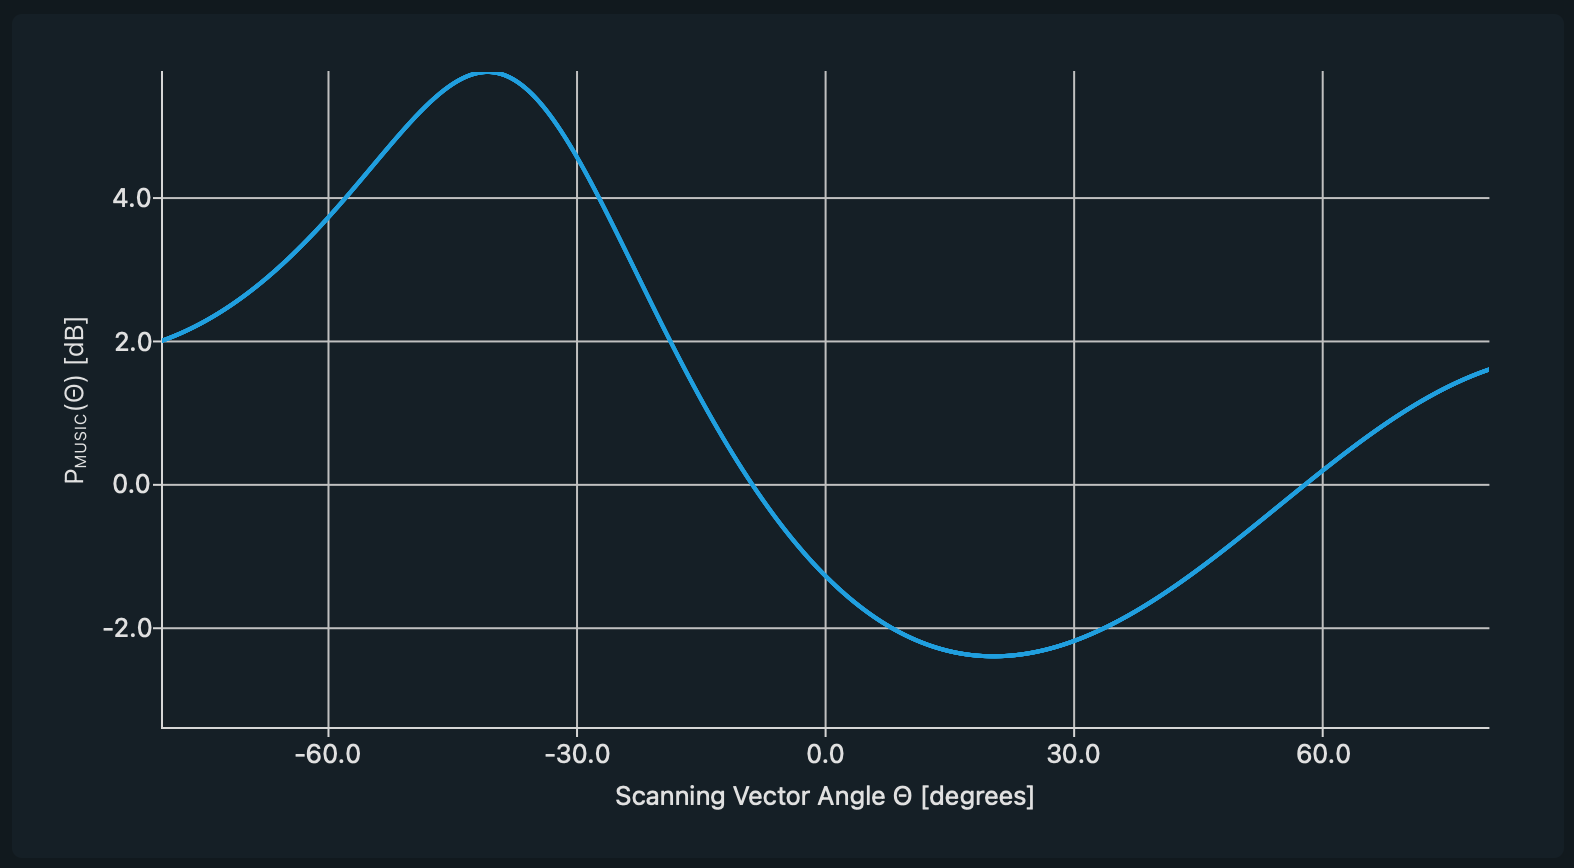
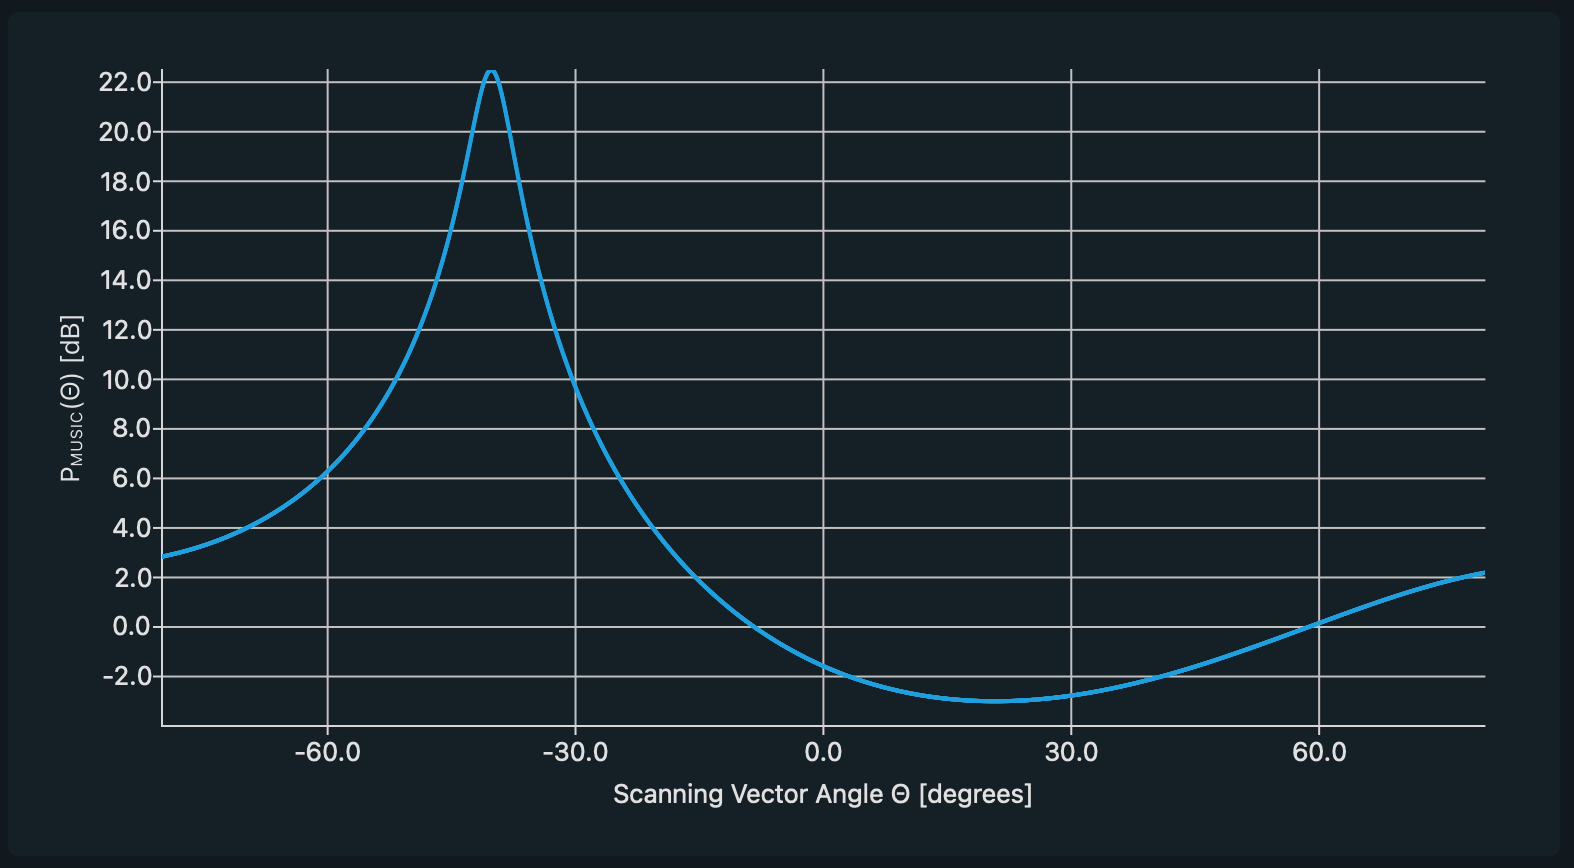
Measurement

Changed region(s): [[0.0311, 0.0622, 0.9339, 0.9021], [0.3736, 0.9021, 0.6537, 0.9332], [0.3424, 0.591, 0.3736, 0.6221]]

diff --git a/matlab/music_125MHz_M64_1m_-30deg/cfr.m b/matlab/music_125MHz_M64_1m_-30deg/cfr.m
@@ -1,38 +1,38 @@
 % Auto-generated MATLAB script
 clear;
-CH0_314 = [ ...
-0 + 1i*0, 0.839466 + 1i*-0.112458, 0.829979 + 1i*-0.107621, 0.81915 + 1i*-0.102733, 0.80703 + 1i*-0.0978115,  ...
-0.793667 + 1i*-0.0928722, 0.779106 + 1i*-0.0879274, 0.763388 + 1i*-0.0829871, 0 + 1i*0, 0 + 1i*0,  ...
-0 + 1i*0, 0 + 1i*0, 0 + 1i*0, 0.646664 + 1i*-0.0538304, 0.623712 + 1i*-0.0491016,  ...
-0.599807 + 1i*-0.0444256, 0.574957 + 1i*-0.0398106, 0.549168 + 1i*-0.0352671, 0.522442 + 1i*-0.0308083, 0.494775 + 1i*-0.026451,  ...
-0.466162 + 1i*-0.0222157, 0.436595 + 1i*-0.018128, 0.406058 + 1i*-0.0142188, 0.374537 + 1i*-0.0105252, 0.342012 + 1i*-0.00709151,  ...
-0.308459 + 1i*-0.00397015, 0 + 1i*0, 0 + 1i*0, 0 + 1i*0, 0 + 1i*0,  ...
+CH0_313 = [ ...
 0 + 1i*0, 0 + 1i*0, 0 + 1i*0, 0 + 1i*0, 0 + 1i*0,  ...
-0 + 1i*0, 0 + 1i*0, 0 + 1i*0, 0 + 1i*0, 0.37856 + 1i*-0.0877708,  ...
-0.431522 + 1i*-0.0996932, 0.480732 + 1i*-0.110415, 0.526337 + 1i*-0.119933, 0.568478 + 1i*-0.128259, 0.607288 + 1i*-0.13542,  ...
-0.642895 + 1i*-0.141451, 0.675418 + 1i*-0.146397, 0.704974 + 1i*-0.15031, 0.731674 + 1i*-0.153246, 0.755624 + 1i*-0.155266,  ...
-0.776928 + 1i*-0.156434, 0.795685 + 1i*-0.156813, 0.811991 + 1i*-0.15647, 0.825938 + 1i*-0.155468, 0.837617 + 1i*-0.153871,  ...
-0.847116 + 1i*-0.15174, 0.854518 + 1i*-0.149134, 0.859905 + 1i*-0.146109, 0.863358 + 1i*-0.142719, 0.864952 + 1i*-0.139013,  ...
-0.864763 + 1i*-0.135037, 0.862861 + 1i*-0.130833, 0.859316 + 1i*-0.126441, 0.854193 + 1i*-0.121894];
-CH1_314 = [ ...
-0 + 1i*0, -0.659433 + 1i*1.85867, -0.660952 + 1i*1.83975, -0.661424 + 1i*1.81759, -0.660823 + 1i*1.79229,  ...
--0.659117 + 1i*1.76393, -0.656267 + 1i*1.73261, -0.652231 + 1i*1.6984, 0 + 1i*0, 0 + 1i*0,  ...
-0 + 1i*0, 0 + 1i*0, 0 + 1i*0, -0.60017 + 1i*1.437, -0.586305 + 1i*1.38468,  ...
--0.570795 + 1i*1.33001, -0.553579 + 1i*1.27303, -0.534602 + 1i*1.21377, -0.513807 + 1i*1.15227, -0.491148 + 1i*1.08854,  ...
--0.466581 + 1i*1.02259, -0.440071 + 1i*0.954417, -0.411589 + 1i*0.884021, -0.381119 + 1i*0.811376, -0.348656 + 1i*0.736448,  ...
--0.314208 + 1i*0.659187, 0 + 1i*0, 0 + 1i*0, 0 + 1i*0, 0 + 1i*0,  ...
+0 + 1i*0, 0 + 1i*0, -0.494303 + 1i*0.297593, -0.572599 + 1i*0.327935, -0.647213 + 1i*0.352992,  ...
+-0.718005 + 1i*0.373258, -0.784884 + 1i*0.38918, -0.847798 + 1i*0.401152, -0.906729 + 1i*0.409529, -0.961683 + 1i*0.414625,  ...
+-1.01269 + 1i*0.41672, -1.05979 + 1i*0.416064, -1.10305 + 1i*0.412877, -1.14252 + 1i*0.407359, -1.17828 + 1i*0.399687,  ...
+-1.21041 + 1i*0.390025, -1.23897 + 1i*0.378521, -1.26406 + 1i*0.365313, -1.28575 + 1i*0.350529, -1.30411 + 1i*0.334294,  ...
+-1.31922 + 1i*0.316726, -1.33115 + 1i*0.297942, -1.33997 + 1i*0.278057, -1.34574 + 1i*0.257186, -1.34853 + 1i*0.235449,  ...
+-1.34841 + 1i*0.212963, -1.34542 + 1i*0.189854, 0 + 1i*0, -1.33108 + 1i*0.142269, -1.31984 + 1i*0.11806,  ...
+-1.30596 + 1i*0.0937564, -1.28949 + 1i*0.0695018, -1.27049 + 1i*0.0454433, -1.249 + 1i*0.0217309, -1.2251 + 1i*-0.00148215,  ...
 0 + 1i*0, 0 + 1i*0, 0 + 1i*0, 0 + 1i*0, 0 + 1i*0,  ...
-0 + 1i*0, 0 + 1i*0, 0 + 1i*0, 0 + 1i*0, -0.203626 + 1i*0.789683,  ...
--0.238516 + 1i*0.904787, -0.272196 + 1i*1.01219, -0.304526 + 1i*1.11218, -0.335406 + 1i*1.20504, -0.364766 + 1i*1.29101,  ...
--0.392564 + 1i*1.37036, -0.418783 + 1i*1.4433, -0.443423 + 1i*1.51007, -0.4665 + 1i*1.57088, -0.48804 + 1i*1.62593,  ...
--0.508083 + 1i*1.67541, -0.526672 + 1i*1.71951, -0.543855 + 1i*1.7584, -0.559683 + 1i*1.79225, -0.574207 + 1i*1.82122,  ...
--0.587478 + 1i*1.84548, -0.599544 + 1i*1.86516, -0.610448 + 1i*1.88041, -0.620231 + 1i*1.89138, -0.628928 + 1i*1.89818,  ...
--0.636566 + 1i*1.90096, -0.643169 + 1i*1.89984, -0.648753 + 1i*1.89494, -0.653324 + 1i*1.88637];
-figure;subplot(2,1,1); hold on;plot(abs(CH0_314), 'DisplayName', 'CH0_314');title('Channel Frequency Response Gain'); legend; grid on;
-subplot(2,1,2); hold on;plot(angle(CH0_314), 'DisplayName', 'CH0_314');title('Channel Frequency Response Phase'); legend; grid on;
-figure;plot(real(CH0_314), imag(CH0_314), '.', 'DisplayName', 'CH0_314'); hold on;title('CFR'); xlabel('Real'); ylabel('Imag'); axis equal; legend; grid on;
+-1.0344 + 1i*-0.12149, -0.995407 + 1i*-0.136822, -0.95456 + 1i*-0.150418, -0.91195 + 1i*-0.16214, -0.867664 + 1i*-0.171853,  ...
+-0.82179 + 1i*-0.179435, -0.774419 + 1i*-0.184771, -0.725637 + 1i*-0.18776, -0.675532 + 1i*-0.188311, -0.624183 + 1i*-0.18635,  ...
+-0.571667 + 1i*-0.181815, -0.518051 + 1i*-0.174663, -0.463391 + 1i*-0.164869, 0 + 1i*0, 0 + 1i*0,  ...
+0 + 1i*0, 0 + 1i*0, 0 + 1i*0, 0 + 1i*0];
+CH1_313 = [ ...
+0 + 1i*0, 0 + 1i*0, 0 + 1i*0, 0 + 1i*0, 0 + 1i*0,  ...
+0 + 1i*0, 0 + 1i*0, 0.175488 + 1i*-0.586166, 0.205709 + 1i*-0.672864, 0.234281 + 1i*-0.75401,  ...
+0.260976 + 1i*-0.829854, 0.285638 + 1i*-0.900622, 0.308176 + 1i*-0.966514, 0.328548 + 1i*-1.02771, 0.346761 + 1i*-1.08437,  ...
+0.362854 + 1i*-1.13663, 0.3769 + 1i*-1.18462, 0.388992 + 1i*-1.22847, 0.399244 + 1i*-1.26826, 0.40778 + 1i*-1.30412,  ...
+0.414735 + 1i*-1.33611, 0.420246 + 1i*-1.36434, 0.424454 + 1i*-1.38889, 0.427495 + 1i*-1.40984, 0.429502 + 1i*-1.42727,  ...
+0.4306 + 1i*-1.44126, 0.430906 + 1i*-1.4519, 0.430525 + 1i*-1.45925, 0.429551 + 1i*-1.4634, 0.428064 + 1i*-1.46444,  ...
+0.426132 + 1i*-1.46243, 0.423807 + 1i*-1.45746, 0 + 1i*0, 0.418125 + 1i*-1.43897, 0.414802 + 1i*-1.4256,  ...
+0.411161 + 1i*-1.40959, 0.407187 + 1i*-1.39102, 0.402854 + 1i*-1.36997, 0.398125 + 1i*-1.34652, 0.392956 + 1i*-1.32073,  ...
+0 + 1i*0, 0 + 1i*0, 0 + 1i*0, 0 + 1i*0, 0 + 1i*0,  ...
+0.349334 + 1i*-1.12124, 0.339343 + 1i*-1.08116, 0.328404 + 1i*-1.03929, 0.316463 + 1i*-0.995681, 0.303475 + 1i*-0.950377,  ...
+0.289411 + 1i*-0.903412, 0.274251 + 1i*-0.854813, 0.257995 + 1i*-0.804598, 0.240663 + 1i*-0.752772, 0.222296 + 1i*-0.69933,  ...
+0.202962 + 1i*-0.644251, 0.182759 + 1i*-0.587502, 0.161817 + 1i*-0.529034, 0 + 1i*0, 0 + 1i*0,  ...
+0 + 1i*0, 0 + 1i*0, 0 + 1i*0, 0 + 1i*0];
+figure;subplot(2,1,1); hold on;plot(abs(CH0_313), 'DisplayName', 'CH0_313');title('Channel Frequency Response Gain'); legend; grid on;
+subplot(2,1,2); hold on;plot(angle(CH0_313), 'DisplayName', 'CH0_313');title('Channel Frequency Response Phase'); legend; grid on;
+figure;plot(real(CH0_313), imag(CH0_313), '.', 'DisplayName', 'CH0_313'); hold on;title('CFR'); xlabel('Real'); ylabel('Imag'); axis equal; legend; grid on;
 
-figure;subplot(2,1,1); hold on;plot(abs(CH1_314), 'DisplayName', 'CH1_314');title('Channel Frequency Response Gain'); legend; grid on;
-subplot(2,1,2); hold on;plot(angle(CH1_314), 'DisplayName', 'CH1_314');title('Channel Frequency Response Phase'); legend; grid on;
-figure;plot(real(CH1_314), imag(CH1_314), '.', 'DisplayName', 'CH1_314'); hold on;title('CFR'); xlabel('Real'); ylabel('Imag'); axis equal; legend; grid on;
+figure;subplot(2,1,1); hold on;plot(abs(CH1_313), 'DisplayName', 'CH1_313');title('Channel Frequency Response Gain'); legend; grid on;
+subplot(2,1,2); hold on;plot(angle(CH1_313), 'DisplayName', 'CH1_313');title('Channel Frequency Response Phase'); legend; grid on;
+figure;plot(real(CH1_313), imag(CH1_313), '.', 'DisplayName', 'CH1_313'); hold on;title('CFR'); xlabel('Real'); ylabel('Imag'); axis equal; legend; grid on;
 

diff --git a/matlab/music_125MHz_M64_1m_-30deg/cbdata.m b/matlab/music_125MHz_M64_1m_-30deg/cbdata.m
@@ -1,26 +1,26 @@
 % Auto-generated MATLAB script
 clear;
-CH1_314 = [ ...
--1.13475 + 1i*0.126164, -0.5749 + 1i*0.0444712, -1.21901 + 1i*0.133912, 0.652826 + 1i*-0.0493812, 1.08866 + 1i*-0.0595365,  ...
-1.34441 + 1i*-0.130144, 0.815416 + 1i*-0.0291612, 0.931013 + 1i*-0.0823411, -1.03933 + 1i*0.0647021, -0.640247 + 1i*0.0933208,  ...
-1.97541 + 1i*-0.102901, -1.17997 + 1i*0.0596367, 1.09322 + 1i*-0.0465409, 1.7179 + 1i*-0.0822725, -0.751111 + 1i*0.0622601,  ...
--0.96306 + 1i*0.0700584, -1.25847 + 1i*0.011991, -1.07077 + 1i*0.0180304, 1.08992 + 1i*-0.190044, 1.05165 + 1i*-0.187893,  ...
--0.807802 + 1i*0.193183, -0.536855 + 1i*0.115255, -0.700583 + 1i*0.106271, -0.725771 + 1i*0.112985, 1.46531 + 1i*-0.254626,  ...
--1.17331 + 1i*0.176228, -1.79239 + 1i*0.319359, 1.05856 + 1i*-0.174188, 1.15646 + 1i*-0.217548, -0.68137 + 1i*0.0827339,  ...
--1.31993 + 1i*0.196972, 0.785658 + 1i*-0.125581, 1.14274 + 1i*-0.20009, -1.07064 + 1i*0.141137, 1.18843 + 1i*-0.198564,  ...
--1.1979 + 1i*0.123285, -0.703288 + 1i*0.0564867, -1.33242 + 1i*0.164197, -0.712241 + 1i*0.0658301, -1.22453 + 1i*0.138552 ...
+CH1_313 = [ ...
+-1.13346 + 1i*0.0705674, -0.548276 + 1i*0.0421696, -1.16858 + 1i*0.0443053, 0.685618 + 1i*0.0187171, 1.10873 + 1i*0.0107721,  ...
+1.31547 + 1i*-0.0491416, 0.853745 + 1i*-0.0209245, 0.917429 + 1i*-0.0637078, -1.06259 + 1i*-0.0333763, -0.584675 + 1i*0.0391406,  ...
+1.99443 + 1i*-0.0145998, -1.18712 + 1i*-0.0524963, 1.15663 + 1i*-0.0192399, 1.63808 + 1i*-0.0124167, -0.83727 + 1i*0.0206494,  ...
+-0.994226 + 1i*0.0406581, -1.22302 + 1i*-0.0127914, -0.980771 + 1i*-0.00131702, 1.1243 + 1i*-0.0806113, 0.989273 + 1i*-0.0683345,  ...
+-0.91409 + 1i*0.0740796, -0.579319 + 1i*0.0526549, -0.699171 + 1i*0.0167522, -0.697608 + 1i*0.0354099, 1.4727 + 1i*-0.0721382,  ...
+-1.23904 + 1i*0.0610015, -1.74641 + 1i*0.127841, 1.16434 + 1i*-0.0491952, 1.14703 + 1i*-0.0788532, -0.728601 + 1i*0.0355689,  ...
+-1.2785 + 1i*0.104928, 0.869856 + 1i*-0.0148897, 1.14139 + 1i*-0.0570662, -1.09286 + 1i*0.0544299, 1.1727 + 1i*-0.043824,  ...
+-1.26775 + 1i*0.0449521, -0.731491 + 1i*0.0353281, -1.3655 + 1i*0.108962, -0.729378 + 1i*0.0666865, -1.21588 + 1i*0.0862769 ...
 ];
-CH0_314 = [ ...
--1.14688 + 1i*0.107225, -0.557138 + 1i*0.0412242, -1.19555 + 1i*0.0942418, 0.67492 + 1i*-0.0292559, 1.09722 + 1i*-0.0823374,  ...
-1.33781 + 1i*-0.101277, 0.815027 + 1i*-0.0405919, 0.930633 + 1i*-0.0743145, -1.05931 + 1i*0.0314443, -0.606026 + 1i*0.0280947,  ...
-1.96905 + 1i*-0.0690866, -1.17634 + 1i*0.0449744, 1.10714 + 1i*-0.0427977, 1.67757 + 1i*-0.0310437, -0.771837 + 1i*0.0298126,  ...
--0.959493 + 1i*0.0196839, -1.19267 + 1i*0.0142657, -1.03357 + 1i*0.0069604, 1.09901 + 1i*-0.244216, 1.03386 + 1i*-0.187185,  ...
--0.870598 + 1i*0.151338, -0.556448 + 1i*0.100841, -0.681091 + 1i*0.0988932, -0.709691 + 1i*0.116596, 1.47364 + 1i*-0.235695,  ...
--1.1972 + 1i*0.175582, -1.79784 + 1i*0.274347, 1.0999 + 1i*-0.154791, 1.17106 + 1i*-0.17384, -0.686539 + 1i*0.0707869,  ...
--1.31665 + 1i*0.184911, 0.822855 + 1i*-0.106736, 1.15741 + 1i*-0.163014, -1.06721 + 1i*0.115797, 1.18665 + 1i*-0.157254,  ...
--1.2179 + 1i*0.137731, -0.710914 + 1i*0.0774284, -1.3558 + 1i*0.153099, -0.72169 + 1i*0.0889897, -1.22901 + 1i*0.135509 ...
+CH0_313 = [ ...
+-1.15792 + 1i*0.0309741, -0.576315 + 1i*0.00820612, -1.2066 + 1i*0.0097103, 0.64457 + 1i*-0.0028868, 1.08289 + 1i*-0.00854738,  ...
+1.34148 + 1i*-0.0259027, 0.833855 + 1i*4.70965e-05, 0.94648 + 1i*-0.0205944, -1.03184 + 1i*0.0256114, -0.631893 + 1i*0.0289083,  ...
+1.95837 + 1i*-0.0460805, -1.1704 + 1i*0.0148357, 1.11692 + 1i*-0.0212152, 1.67706 + 1i*-0.0644105, -0.785731 + 1i*0.0310314,  ...
+-0.978413 + 1i*0.0319688, -1.23003 + 1i*0.0239457, -1.03295 + 1i*0.0298133, 1.13355 + 1i*-0.0683437, 1.04441 + 1i*-0.0635155,  ...
+-0.860729 + 1i*0.0516349, -0.568965 + 1i*0.0345002, -0.698136 + 1i*0.0217199, -0.720149 + 1i*0.0504497, 1.46997 + 1i*-0.0909966,  ...
+-1.20328 + 1i*0.0673815, -1.80249 + 1i*0.116303, 1.09885 + 1i*-0.0553649, 1.17089 + 1i*-0.0840196, -0.686749 + 1i*0.0306573,  ...
+-1.34134 + 1i*0.0733311, 0.810598 + 1i*-0.0422537, 1.16349 + 1i*-0.0619538, -1.07435 + 1i*0.0409308, 1.19722 + 1i*-0.0647805,  ...
+-1.2142 + 1i*0.0297277, -0.706046 + 1i*0.00518779, -1.36775 + 1i*0.0527675, -0.730094 + 1i*0.013465, -1.22829 + 1i*0.0417265 ...
 ];
-figure;plot(real(CH1_314), imag(CH1_314), '.', 'DisplayName', 'CH1_314'); hold on;
-plot(real(CH0_314), imag(CH0_314), '.', 'DisplayName', 'CH0_314'); hold on;
+figure;plot(real(CH1_313), imag(CH1_313), '.', 'DisplayName', 'CH1_313'); hold on;
+plot(real(CH0_313), imag(CH0_313), '.', 'DisplayName', 'CH0_313'); hold on;
 title('Received Data'); xlabel('Real'); ylabel('Imag'); axis equal; legend; grid on;
 
